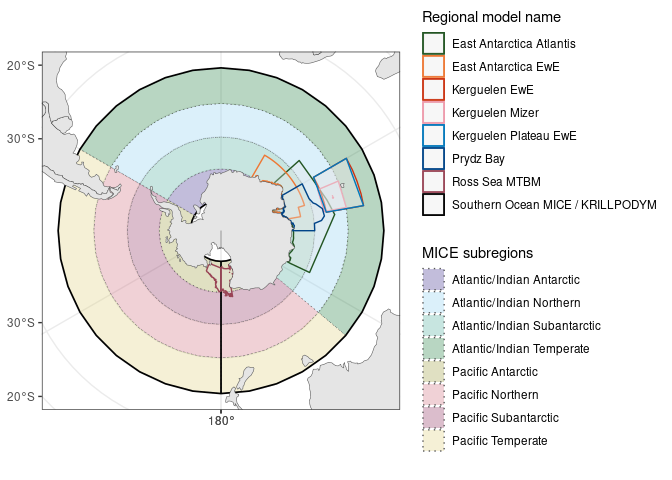
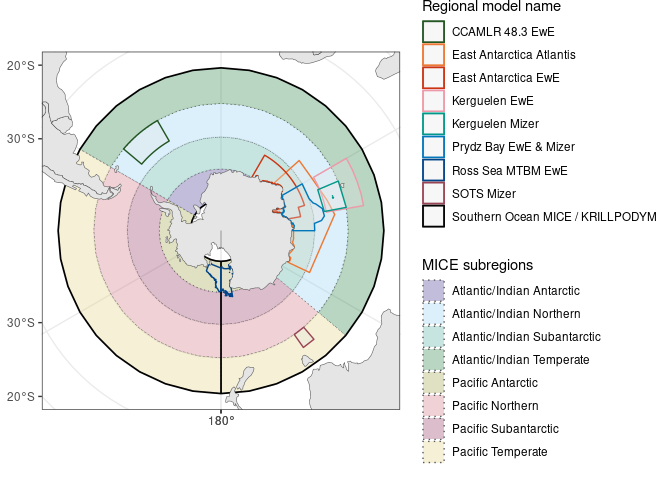
adding two regions shared by Kieran

diff --git a/scripts/Fig4_FishMIP_SO_models.md b/scripts/Fig4_FishMIP_SO_models.md
@@ -71,9 +71,6 @@ reg_path <- "../../FishMIP_regions/Outputs/FishMIP_regional_models/FishMIP_regio
 fishmip_reg <- read_sf(reg_path) |> 
   #Keeping Southern Ocean regional models
   filter(str_detect(region, "Southern Ocean|Prydz|Antarctica|Kerguelen|Ross")) |> 
-  #Add colours for each region
-  mutate(col = c("#225522", "#ee7733", "#cc3311", "#ee99aa",
-                 "#0077bb", "#004488", "#994455", "#000000")) |> 
   #South Polar Stereographic projection
   st_transform(crs = 3976)
 
@@ -90,7 +87,15 @@ so_mice <- read_sf(mice_path) |>
   #South Polar Stereographic projection
   st_transform(crs = 3976)
 
-#Getting Antartica boundaries
+#Adding SOTS and CCAMLR 4-83 to map
+fishmip_reg <- fishmip_reg |> 
+  bind_rows(read_sf("../data/SOTS/clean_SOTS_region.shp")) |> 
+  bind_rows(read_sf("../data/CCAMLR_48-3/clean_CCAMLR_48-3.shp")) |> 
+  #Add colours for each region
+  mutate(col = c("#225522", "#ee7733", "#cc3311", "#ee99aa", "#009988",
+                 "#0077bb", "#004488", "#994455", "#000000")) 
+
+#Getting Antarctica boundaries
 world <- ne_countries(returnclass = "sf") |> 
   st_transform(crs = 3976)
 ```
@@ -98,7 +103,7 @@ world <- ne_countries(returnclass = "sf") |>
 ## Plotting Southern Ocean models
 
 ``` r
-ggplot()+
+p <- ggplot()+
   #Add MICE subregions - Colouring by subregion
   geom_sf(data = so_mice, aes(fill = subregion), alpha = 0.3,
           linetype = "dotted")+
@@ -109,19 +114,22 @@ ggplot()+
           aes(color = region), linewidth = 0.5, alpha = 0.3)+
   guides(color = guide_legend(title = "Regional model name", order = 1))+
   scale_color_manual(values = fishmip_reg$col,
-                     labels = c("East Antarctica Atlantis",
+                     labels = c("CCAMLR 48.3 EwE",
+                                "East Antarctica Atlantis",
                                 "East Antarctica EwE",
                                 "Kerguelen EwE",
                                 "Kerguelen Mizer",
-                                "Kerguelen Plateau EwE",
-                                "Prydz Bay",
-                                "Ross Sea MTBM",
+                                "Prydz Bay EwE & Mizer",
+                                "Ross Sea MTBM EwE",
+                                "SOTS Mizer",
                                 "Southern Ocean MICE / KRILLPODYM"))+
   guides(fill = guide_legend(title = "MICE subregions"))+
   geom_sf(data = world)+
   lims(x = c(-5774572.727594968, 5774572.727594968), 
        y = c(-5774572.727594968, 5774572.727594968))+
   theme_bw()
+
+p
 ```
 
 ![](Fig4_FishMIP_SO_models_files/figure-commonmark/unnamed-chunk-3-1.png)
